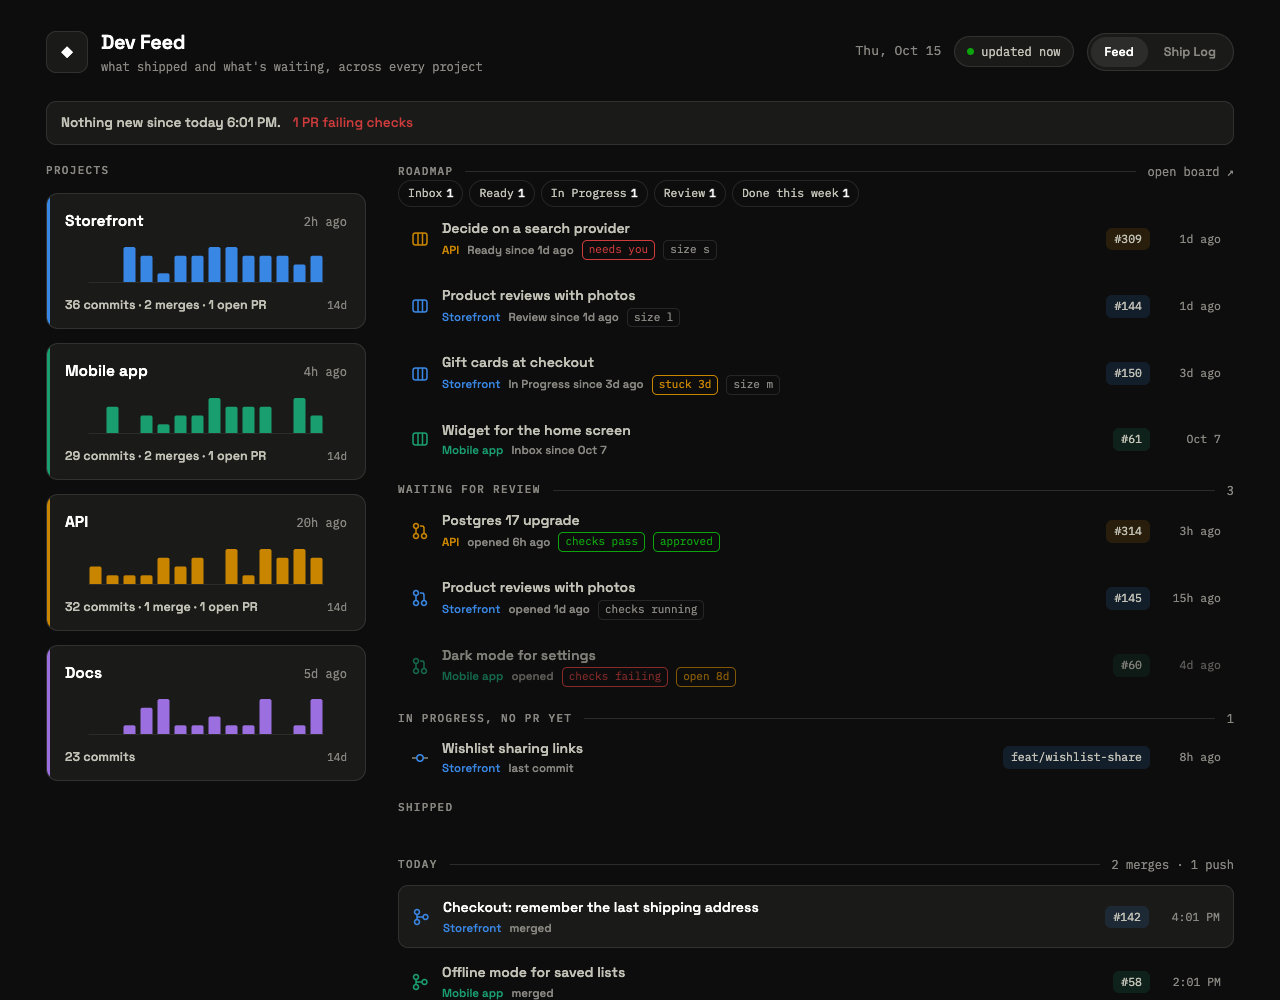
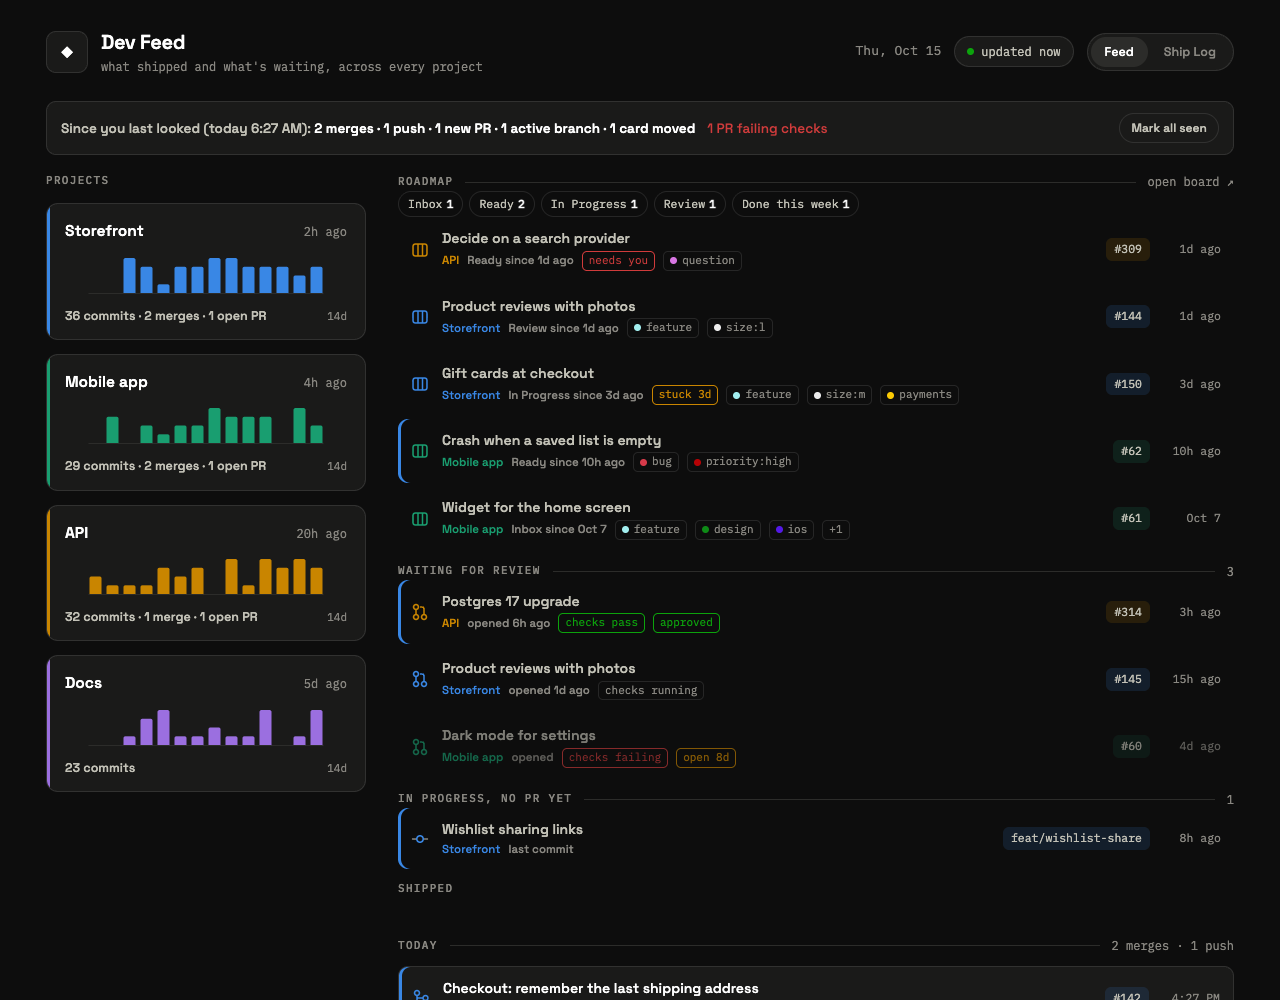
Show board cards' own labels in their GitHub colours
Replaces the size: special case: every label on the issue shows as a tag
with its colour as a dot, so any label colour stays readable on the dark
page. Up to three per card, the rest behind a +N that lists them on hover.
The attention label still floats a card to the top as "needs you", and
hide_labels keeps noisy ones off.

diff --git a/public/index.html b/public/index.html
@@ -126,6 +126,8 @@
   .entry .flag.ok { color: var(--good); border-color: var(--good); }
   .openwork { display: flex; flex-direction: column; gap: 12px; margin-bottom: 18px; }
   .entry .flag.warn { color: var(--warn); border-color: var(--warn); }
+  .entry .flag.label { display: inline-flex; align-items: center; gap: 5px; }
+  .entry .flag.label i { width: 7px; height: 7px; border-radius: 50%; flex: none; }
   .entry.old { opacity: 0.62; }
   .entry.old:hover { opacity: 1; }
   .entry.new { box-shadow: inset 3px 0 0 var(--new); }
@@ -431,7 +433,16 @@ function openWorkRow(it, icon, verb, flags, refText) {
   const pname = el('span', null, it.repo.display);
   pname.style.color = color; pname.style.fontWeight = '500';
   meta.append(pname, el('span', 'verb', verb));
-  for (const [text, cls] of flags) meta.appendChild(el('span', 'flag mono' + (cls ? ' ' + cls : ''), text));
+  for (const [text, cls, dot, title] of flags) {
+    const f = el('span', 'flag mono' + (cls ? ' ' + cls : ''), text);
+    if (title) f.title = title;
+    if (dot) {   // a GitHub label: its own colour as a dot, so any colour stays readable
+      const i = el('i');
+      i.style.background = dot;
+      f.prepend(i);
+    }
+    meta.appendChild(f);
+  }
   body.appendChild(meta);
   a.appendChild(body);
   const ref = el('span', 'ref mono', refText);
@@ -458,6 +469,7 @@ function isNew(ts) { return !!ts && ts > since; }
 function days(ts) { return Math.floor((Date.now() - new Date(ts)) / 86400000); }
 
 const STALE_PR_DAYS = 7, QUIET_BRANCH_DAYS = 3, STUCK_CARD_DAYS = 3;
+const MAX_LABELS = 3;   // per board card; the rest collapse into "+N"
 
 function repoOf(name) {
   return feed.repos.find(r => r.repo === name) || { repo: name, display: name.split('/')[1], slot: 8 };
@@ -550,7 +562,14 @@ function boardSection() {
     const age = c.since ? days(c.since) : 0;
     if (active.includes(c.status) && age >= STUCK_CARD_DAYS)
       flags.push(['stuck ' + age + 'd', 'warn']);
-    if (c.size) flags.push(['size ' + c.size]);
+    const labels = c.labels || [];
+    for (const l of labels.slice(0, MAX_LABELS)) {
+      flags.push([l.name, 'label', /^[0-9a-f]{6}$/i.test(l.color) ? '#' + l.color : 'var(--d-muted)']);
+    }
+    if (labels.length > MAX_LABELS) {
+      const rest = labels.slice(MAX_LABELS).map(l => l.name).join(', ');
+      flags.push(['+' + (labels.length - MAX_LABELS), null, null, rest]);
+    }
     const row = openWorkRow({ ...c, ts: c.since || '', repo: repoOf(c.repo) }, boardIcon,
       c.status + (c.since ? ' since ' + rel(c.since) : ''), flags, c.ref);
     list.appendChild(row);

diff --git a/devfeed.py b/devfeed.py
@@ -239,7 +239,7 @@ query($owner: String!, $number: Int!) {
               ... on Issue {
                 number title url state
                 repository { nameWithOwner }
-                labels(first: 20) { nodes { name } }
+                labels(first: 20) { nodes { name color } }
               }
             }
           }
@@ -263,6 +263,7 @@ def fetch_board(board):
                            "(gh needs the read:project scope: gh auth refresh -s read:project)")
     done = board.get("done_column", "Done")
     attention = board.get("attention_label", "needs-human")
+    hidden_labels = set(board.get("hide_labels", []))
     columns = [o["name"] for o in (project.get("field") or {}).get("options", [])
                if o["name"] != done]
     cutoff = utc_cutoff(BOARD_DONE_DAYS)
@@ -275,7 +276,7 @@ def fetch_board(board):
         since = st["updatedAt"] if st else None
         if status == done and (since or "") < cutoff:
             continue
-        labels = [l["name"] for l in c["labels"]["nodes"]]
+        labels = c["labels"]["nodes"]
         cards.append({
             "title": c["title"].strip(),
             "url": c["url"],
@@ -284,8 +285,11 @@ def fetch_board(board):
             "status": "Done" if status == done else status,
             "since": since,
             "closed": c["state"] != "OPEN",
-            "needs_human": attention in labels,
-            "size": next((l[5:] for l in labels if l.startswith("size:")), None),
+            "needs_human": any(l["name"] == attention for l in labels),
+            # The card's own labels, in GitHub's colours. The attention label
+            # is shown as "needs you" instead, so it isn't repeated here.
+            "labels": [{"name": l["name"], "color": l["color"]} for l in labels
+                       if l["name"] != attention and l["name"] not in hidden_labels],
         })
     return {
         "title": board.get("title") or project["title"],
@@ -426,19 +430,28 @@ def demo_feed():
         repos.append({"repo": repo, "display": display, "slot": slot,
                       "last_activity": its[0]["ts"], "spark": spark, "items": its,
                       "open_prs": open_prs, "branches": brs})
+    feature, bug, grey = ("feature", "a2eeef"), ("bug", "d73a4a"), "ededed"
     cards = [
-        ("Gift cards at checkout", "acme/storefront", "#150", "In Progress", 90, False, "m"),
-        ("Product reviews with photos", "acme/storefront", "#144", "Review", 30, False, "l"),
-        ("Decide on a search provider", "acme/api", "#309", "Ready", 40, True, "s"),
-        ("Widget for the home screen", "acme/mobile", "#61", "Inbox", 200, False, None),
-        ("Rate limit the search endpoint", "acme/api", "#305", "Done", 20, False, "s"),
+        ("Gift cards at checkout", "acme/storefront", "#150", "In Progress", 90, False,
+         [feature, ("size:m", grey), ("payments", "fbca04")]),
+        ("Product reviews with photos", "acme/storefront", "#144", "Review", 30, False,
+         [feature, ("size:l", grey)]),
+        ("Decide on a search provider", "acme/api", "#309", "Ready", 40, True,
+         [("question", "d876e3")]),
+        ("Crash when a saved list is empty", "acme/mobile", "#62", "Ready", 10, False,
+         [bug, ("priority:high", "b60205")]),
+        ("Widget for the home screen", "acme/mobile", "#61", "Inbox", 200, False,
+         [feature, ("design", "0e8a16"), ("ios", "5319e7"), ("android", "1d76db")]),
+        ("Rate limit the search endpoint", "acme/api", "#305", "Done", 20, False, [feature]),
     ]
     board = {"title": "Roadmap", "url": "https://github.com/orgs/acme/projects/1",
              "columns": ["Inbox", "Ready", "In Progress", "Review"],
              "active_columns": ["In Progress", "Review"],
              "cards": [{"title": t, "url": f"https://github.com/{r}/issues/{n[1:]}", "repo": r,
                         "ref": n, "status": st, "since": ago(h), "closed": st == "Done",
-                        "needs_human": nh, "size": sz} for t, r, n, st, h, nh, sz in cards]}
+                        "needs_human": nh,
+                        "labels": [{"name": ln, "color": lc} for ln, lc in labels]}
+                       for t, r, n, st, h, nh, labels in cards]}
     return {"generated_at": ago(0), "interval_minutes": 5, "spark_days": 14, "days": 30,
             "repos": repos, "board": board}
 

diff --git a/README.md b/README.md
@@ -12,8 +12,9 @@ you last looked.
 - **Since you last looked.** Counts merges, pushes, new PRs, active branches and board
   moves since your last visit, and marks those rows. Tracked per device.
 - **Waiting on you.** Open PRs with check and review state, branches with recent
-  commits but no PR, and project-board cards. Flags PRs open 7+ days, branches quiet
-  3+ days, cards stuck in progress for 3+ days, and cards labelled `needs-human`.
+  commits but no PR, and project-board cards with their own labels. Flags PRs open
+  7+ days, branches quiet 3+ days, cards stuck in progress for 3+ days, and puts cards
+  with your attention label (`needs-human` by default) on top.
 - **Repos find themselves.** Every non-archived repo you've pushed to in the last two
   weeks shows up, most recent first, and drops off when it goes quiet. Nothing to list.
 - **Ship Log.** A second, calmer view: everything shipped, by project and day.
@@ -77,12 +78,19 @@ for macOS, a systemd unit for Linux, and a cron line if you'd rather serve
 Columns come from the board's own `Status` field, in order. Optional keys: `title`
 (defaults to the board's name), `done_column` (`"Done"`), `active_columns` (which
 columns count as "in progress" for the stuck flag; defaults to the last two before
-Done) and `attention_label` (`"needs-human"`). Reading a board needs the
+Done), `attention_label` (`"needs-human"`) and `hide_labels` (`[]`). Reading a board needs the
 `read:project` scope: `gh auth refresh -s read:project`.
 
-Labels on an issue add to its card: the attention label puts it at the top marked
-"needs you", and a `size:` label (`size:s`, `size:m`, `size:l`, any suffix) shows as a
-size tag. Only issues are shown; draft notes and PR cards on the board are skipped.
+Each card shows the issue's own labels in their GitHub colours, up to three, with the
+rest behind a "+N" you can hover. One label is special: the `attention_label` puts the
+card at the top, marked "needs you". To keep a noisy label off the cards, list it in
+`hide_labels`:
+
+```json
+"board": { "owner": "you", "number": 1, "attention_label": "blocked", "hide_labels": ["good first issue"] }
+```
+
+Only issues are shown; draft notes and PR cards on the board are skipped.
 
 ## Limits
 
